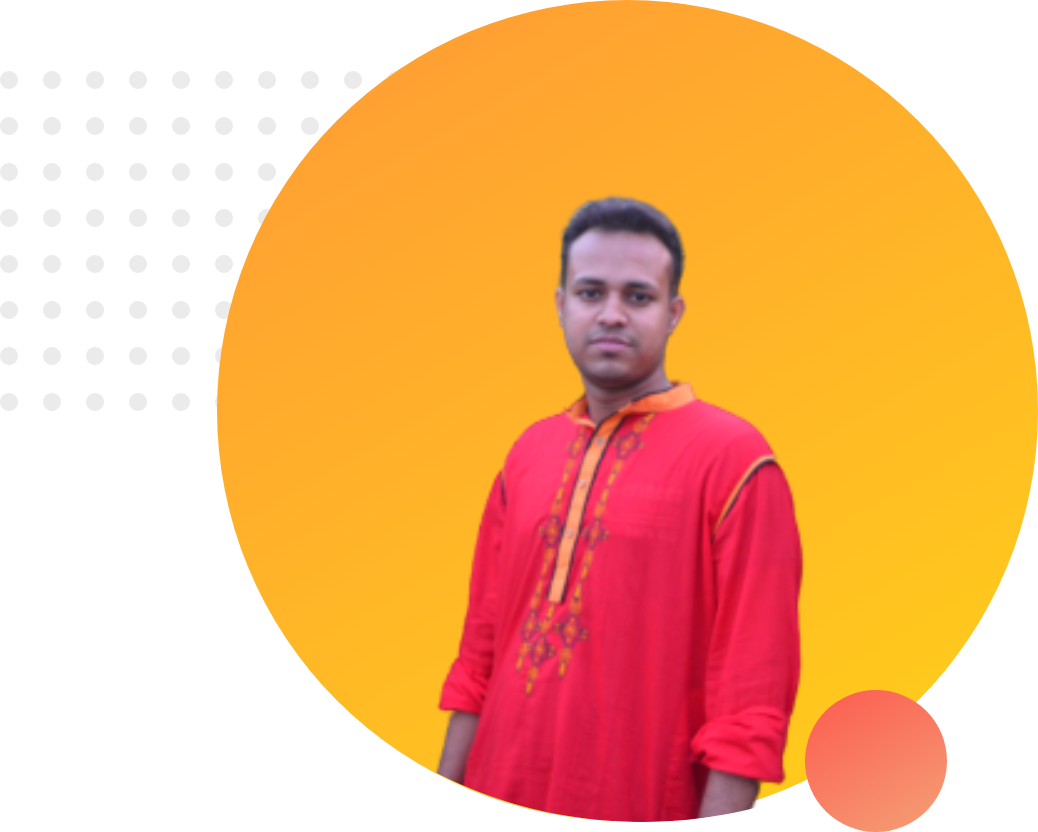
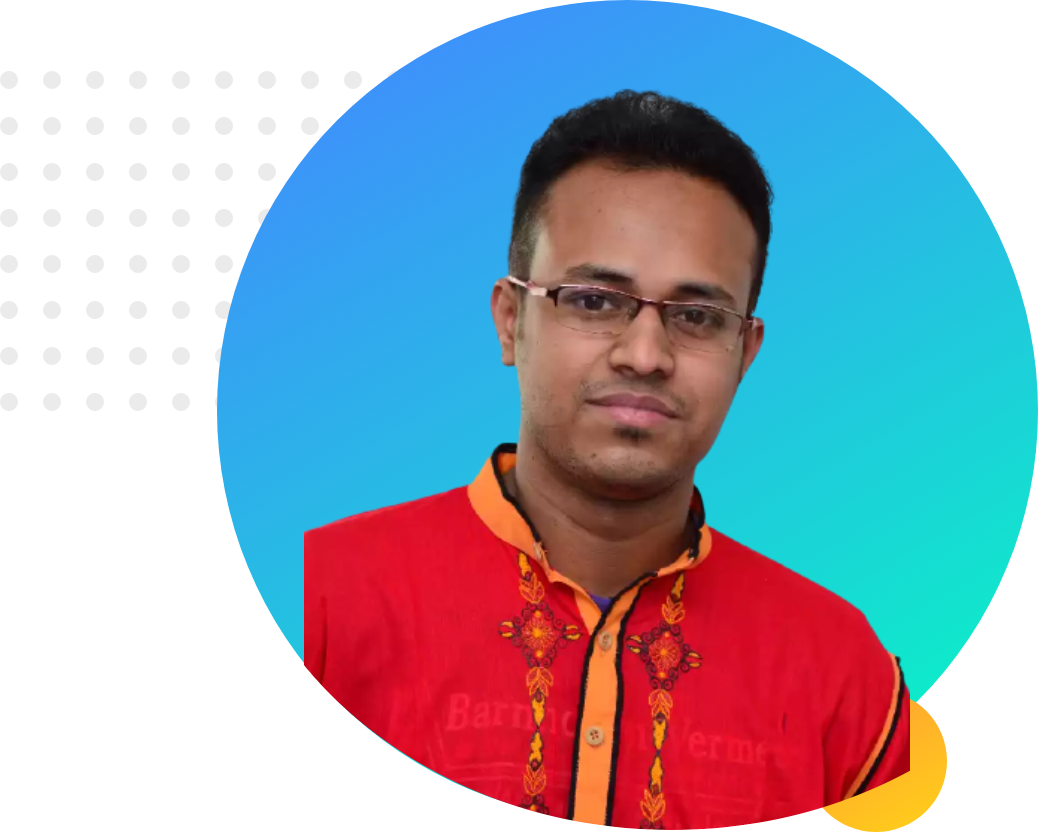
dream section updated

diff --git a/index.html b/index.html
@@ -14,9 +14,21 @@
     <h1><span class="name-highlight">Md Miyad</span> World</h1>
     <h3>World-class professional web developer</h3>
     <p>You might saw me jumping, climbing buildings, and stopping trains. But nobody pays me a dime for that work. That's why I am learning and mastering web development. I will not stop until I become the Web Development Hero.</p>
+    <a class="link-button" target="_blank" href="https://www.linkedin.com/company/programminghero/">HIRE ME</a>
         </div>
         <div class="half-width">
-            <img src="./images/profile1.png" alt="">
+            <img src="./images/profile1.png" alt="Md Miyad Hossain">
+        </div>
+    </section>
+    <section class="dream-area">
+        <div class="half-width">
+            <img src="./images/profile2.png" alt="Md Miyad Hossain">
+        </div>
+        <div class="half-width">
+            <h2>Dream Big</h2>
+            <h3>Become World's No. 1 Developer</h3>
+            <p>I already learned the basic HTML and CSS. I can build any simple website. I can even teach my grandma how to make simple website. My goal is to build 3 websites and learn advanced topics.</p>
+            <a class="link-button" target="_blank" href="https://www.linkedin.com/company/programminghero/">DOWNLOAD RESUME</a>
         </div>
     </section>
 </body>

diff --git a/style.css b/style.css
@@ -6,8 +6,14 @@ h1{
     font-size: 50px;
     
 }
+h2{
+    font-size: 40px;
+}
+p{
+    color: dimgray;
+}
 .name-highlight{
-    color: orangered;
+    color: orange;
 }
 .half-width{
     width: 40%;
@@ -20,6 +26,22 @@ h1{
 }
 .top-banner{
     background-image: url("./images/top-banner.png");
-    height: 500px;
     background-repeat: no-repeat;
+}
+section{
+    height: 500px;
+    padding-bottom: 150px;
+}
+.link-button{
+    text-decoration: none;
+    background-image: linear-gradient(45deg,lightsalmon, tomato);
+    padding: 10px 35px;
+    border-radius: 5px;
+    color: white;
+    font-weight: 700;
+}
+.dream-area{
+    background-image: url("./images/dream-bg.png");
+    background-repeat: no-repeat;
+    background-position: right;
 }
